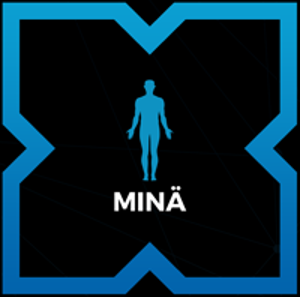
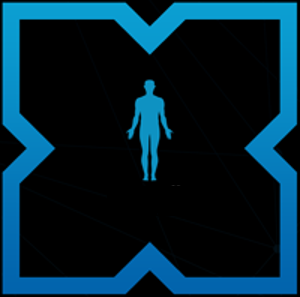
Fixed profile view to match layout

Changed region(s): [[0.36, 0.6061, 0.63, 0.7273]]

diff --git a/style.css b/style.css
@@ -435,6 +435,19 @@ footer#colophon {
     margin-right: auto;
     text-align: center;
     margin-bottom: 0; }
+    .profile-page h3.me-title {
+      position: absolute;
+      margin-top: 195px;
+      left: 0;
+      right: 0;
+      text-align: center;
+      padding-left: 10px; }
+    .profile-page h3:hover {
+      color: #0b9ed1; }
+    .profile-page h3::after {
+      color: #0b9ed1;
+      margin-left: 5px;
+      content: "\27E9"; }
     @media (max-width: 575.98px) {
       .profile-page h3 {
         font-size: 14px; } }

diff --git a/style.scss b/style.scss
@@ -623,6 +623,25 @@ footer#colophon {
     margin-right: auto;
     text-align: center;
     margin-bottom: 0;
+
+    &.me-title {
+      position: absolute;
+      margin-top: 195px;
+      left: 0;
+      right: 0;
+      text-align: center;
+      padding-left: 10px;
+    }
+
+    &:hover  {
+      color: #0b9ed1;
+    }
+
+    &::after {
+      color: #0b9ed1;
+      margin-left: 5px;
+      content: "\27E9";
+    }
     
     @media (max-width: 575.98px) { 
       font-size: 14px;

diff --git a/page-profile.php b/page-profile.php
@@ -170,6 +170,7 @@ get_header(); ?>
                   <div class="row">
                     <div class="col">
                       <a href="/queries?form_category=minä">
+                        <h3 class="me-title">Minä</h3>
                         <img class="me-profile-btn" src="<?php bloginfo('stylesheet_url'); ?>../../gfx/profile-center-btn.png" />
                         <p><?php echo $motivationUserPoints .' / ' . $motivationMaxPoints ?></p>
                       </a>
